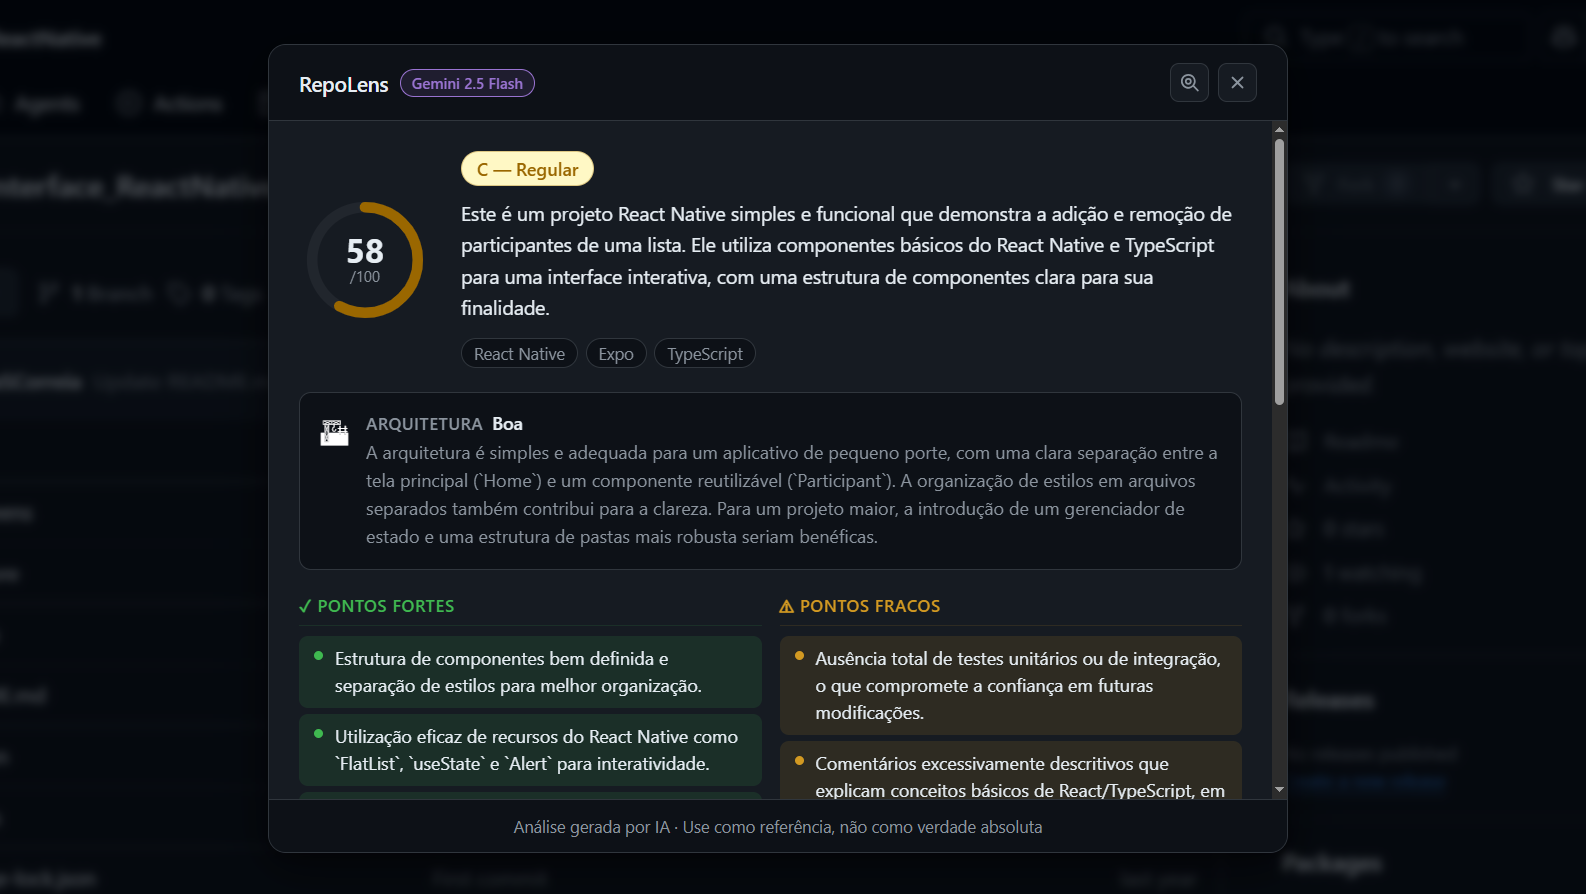
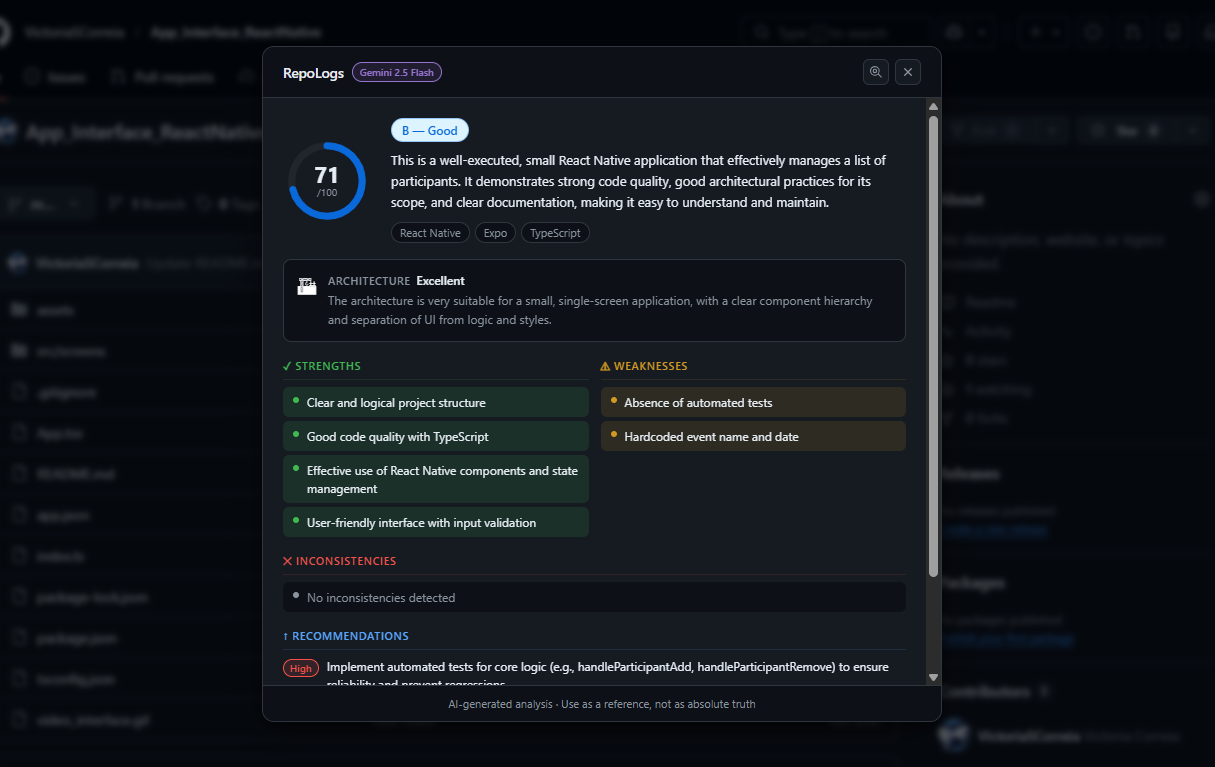
update readme

diff --git a/README.md b/README.md
@@ -24,7 +24,7 @@ RepoLogs is a Chrome extension that injects an analysis button into any public G
 
 ## Screenshots
 
-![Screenshot 1](public/README_files/7.png)
+
 ![Screenshot 2](public/README_files/2.png)
 ![Screenshot 3](public/README_files/3.png)
 ![Screenshot 4](public/README_files/4.png)